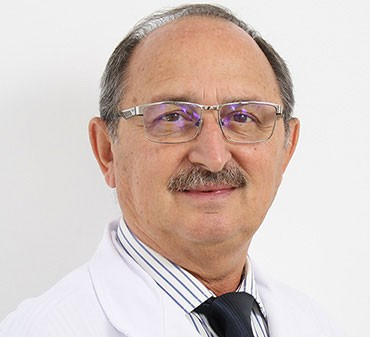
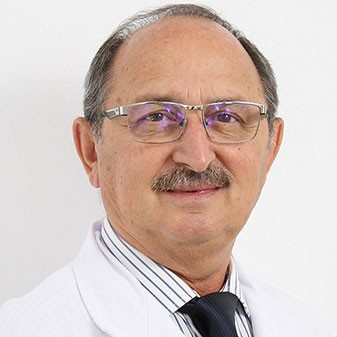
cambios en profesionales_general

Changed region(s): [[0.2077, 0.0, 0.8605, 1.0], [0.2374, 0.8605, 0.3561, 1.0], [0.4451, 0.5341, 0.4748, 0.5638]]

diff --git a/pages/profesionales_general/profesionales_general.html b/pages/profesionales_general/profesionales_general.html
@@ -5,9 +5,8 @@
   <head>
     <meta charset="UTF-8" />
     <meta name="viewport" content="width=device-width, initial-scale=1.0" />
-    <title>Contacto</title>
+    <title>Profesionales</title>
     <link href="https://cdn.jsdelivr.net/npm/bootstrap@5.3.8/dist/css/bootstrap.min.css" rel="stylesheet" integrity="sha384-sRIl4kxILFvY47J16cr9ZwB07vP4J8+LH7qKQnuqkuIAvNWLzeN8tE5YBujZqJLB" crossorigin="anonymous">
-    <script src="https://cdn.jsdelivr.net/npm/bootstrap@5.3.8/dist/js/bootstrap.bundle.min.js" integrity="sha384-FKyoEForCGlyvwx9Hj09JcYn3nv7wiPVlz7YYwJrWVcXK/BmnVDxM+D2scQbITxI" crossorigin="anonymous"></script>
     <link rel="stylesheet" href="../../styles/global.css" />
     <link rel="stylesheet" href="../../styles/profesionales_general.css" />
     <link
@@ -101,7 +100,7 @@
             <div class="row">
                 <div class="col-md-4 mt-5">
                     <div class="card border-0">
-                        <img src="../../assets/portadas/portadaProfesionalesGeneral.jpg" class="card-img-top">
+                        <img src="../../assets/medicos/Dr. josé martín Slopeer.jpg" class="card-img-top">
                         <div class="card-body text-center">
                             <h5 class="card-title">Dr. José Martín Slopeer</h5>
                             <p class="card-text">Especialidad oftalmología</p>
@@ -111,7 +110,7 @@
                 </div> 
                 <div class="col-md-4 mt-5">
                     <div class="card border-0">
-                        <img src="../../assets/portadas/portadaProfesionalesGeneral.jpg" class="card-img-top">
+                        <img src="../../assets/medicos/Dr. Lorenzo Ferrarasi.jpg" class="card-img-top">
                         <div class="card-body text-center">
                             <h5 class="card-title">Dr. Lorenzo Ferrarasi</h5>
                             <p class="card-text">Especialidad oftalmología</p>
@@ -121,7 +120,7 @@
                 </div>
                 <div class="col-md-4 mt-5">
                     <div class="card border-0">
-                        <img src="../../assets/portadas/portadaProfesionalesGeneral.jpg" class="card-img-top">
+                        <img src="../../assets/medicos/Dr. Humberto Daniel Irrazabal.jpg" class="card-img-top">
                         <div class="card-body text-center">
                             <h5 class="card-title">Dr. Humberto Daniel Irrazabal</h5>
                             <p class="card-text">Especialidad oftalmología</p>
@@ -133,7 +132,7 @@
             <div class="row">
                 <div class="col-md-4 mt-5">
                     <div class="card border-0">
-                        <img src="../../assets/portadas/portadaProfesionalesGeneral.jpg" class="card-img-top">
+                        <img src="../../assets/medicos/Dr. Horacio Barreto.jpg" class="card-img-top">
                         <div class="card-body text-center">
                             <h5 class="card-title">Dr. Horacio Barreto</h5>
                             <p class="card-text">Especialidad cardiología</p>
@@ -143,7 +142,7 @@
                 </div> 
                 <div class="col-md-4 mt-5">
                     <div class="card border-0">
-                        <img src="../../assets/portadas/portadaProfesionalesGeneral.jpg" class="card-img-top">
+                        <img src="../../assets/medicos/Dr. Martin Ledesme.jpg" class="card-img-top">
                         <div class="card-body text-center">
                             <h5 class="card-title">Dr. Martin Ledesme</h5>
                             <p class="card-text">Especialidad cardiología</p>
@@ -153,7 +152,7 @@
                 </div>
                 <div class="col-md-4 mt-5">
                     <div class="card border-0">
-                        <img src="../../assets/portadas/portadaProfesionalesGeneral.jpg" class="card-img-top">
+                        <img src="../../assets/medicos/Dr. Jesus Palacio.jpg" class="card-img-top">
                         <div class="card-body text-center">
                             <h5 class="card-title">Dr. Jesus Palacio</h5>
                             <p class="card-text">Especialidad Odontologia</p>
@@ -165,7 +164,7 @@
             <div class="row">
                 <div class="col-md-4 mt-5">
                     <div class="card border-0">
-                        <img src="../../assets/portadas/portadaProfesionalesGeneral.jpg" class="card-img-top">
+                        <img src="../../assets/medicos/Dr. Francisco Braim.jpg" class="card-img-top">
                         <div class="card-body text-center">
                             <h5 class="card-title">Dr. Francisco Braim</h5>
                             <p class="card-text">Especialidad Odontologia</p>
@@ -175,7 +174,7 @@
                 </div> 
                 <div class="col-md-4 mt-5">
                     <div class="card border-0">
-                        <img src="../../assets/portadas/portadaProfesionalesGeneral.jpg" class="card-img-top">
+                        <img src="../../assets/medicos/Dra. Lee Yamaguchi.jpg" class="card-img-top">
                         <div class="card-body text-center">
                             <h5 class="card-title">Dra. Lee Yamaguchi</h5>
                             <p class="card-text">Especialidad Odontologia</p>
@@ -185,7 +184,7 @@
                 </div>
                 <div class="col-md-4 mt-5">
                     <div class="card border-0">
-                        <img src="../../assets/portadas/portadaProfesionalesGeneral.jpg" class="card-img-top">
+                        <img src="../../assets/medicos/Dr. Eulogio Ramon Sarmiento.jpg" class="card-img-top">
                         <div class="card-body text-center">
                             <h5 class="card-title">Dr. Eulogio Ramon Sarmiento</h5>
                             <p class="card-text">Especialidad Traumatologia</p>
@@ -197,7 +196,7 @@
             <div class="row">
                 <div class="col-md-4 mt-5">
                     <div class="card border-0">
-                        <img src="../../assets/portadas/portadaProfesionalesGeneral.jpg" class="card-img-top">
+                        <img src="../../assets/medicos/Dra. Paola Suarez.jpg" class="card-img-top">
                         <div class="card-body text-center">
                             <h5 class="card-title">Dra. Paola Suarez</h5>
                             <p class="card-text">Especialidad Traumatologia</p>
@@ -207,7 +206,7 @@
                 </div> 
                 <div class="col-md-4 mt-5">
                     <div class="card border-0">
-                        <img src="../../assets/portadas/portadaProfesionalesGeneral.jpg" class="card-img-top">
+                        <img src="../../assets/medicos/Dra. Beatriz Gallardo.jpg" class="card-img-top">
                         <div class="card-body text-center">
                             <h5 class="card-title">Dra. Beatriz Gallardo</h5>
                             <p class="card-text">Especialidad Traumatologia</p>
@@ -217,7 +216,7 @@
                 </div>
                 <div class="col-md-4 mt-5">
                     <div class="card border-0">
-                        <img src="../../assets/portadas/portadaProfesionalesGeneral.jpg" class="card-img-top">
+                        <img src="../../assets/medicos/Dra. Raquel Noemi Vera.jpg" class="card-img-top">
                         <div class="card-body text-center">
                             <h5 class="card-title">Dra. Raquel Noemi Vera</h5>
                             <p class="card-text">Especialidad Ginecologia</p>
@@ -229,7 +228,7 @@
             <div class="row">
                 <div class="col-md-4 mt-5">
                     <div class="card border-0">
-                        <img src="../../assets/portadas/portadaProfesionalesGeneral.jpg" class="card-img-top">
+                        <img src="../../assets/medicos/Dr. Matias Morales.jpg" class="card-img-top">
                         <div class="card-body text-center">
                             <h5 class="card-title">Dr. Matias Morales</h5>
                             <p class="card-text">Especialidad Ginecologia</p>
@@ -239,7 +238,7 @@
                 </div> 
                 <div class="col-md-4 mt-5">
                     <div class="card border-0">
-                        <img src="../../assets/portadas/portadaProfesionalesGeneral.jpg" class="card-img-top">
+                        <img src="../../assets/medicos/Dr. Atanasio Roberto Hasselbach.jpg" class="card-img-top">
                         <div class="card-body text-center">
                             <h5 class="card-title">Dr. Atanasio Roberto Hasselbach</h5>
                             <p class="card-text">Especialidad Neurologia</p>
@@ -249,7 +248,7 @@
                 </div>
                 <div class="col-md-4 mt-5">
                     <div class="card border-0">
-                        <img src="../../assets/portadas/portadaProfesionalesGeneral.jpg" class="card-img-top">
+                        <img src="../../assets/medicos/Dr. Guillermo Conti.jpg" class="card-img-top">
                         <div class="card-body text-center">
                             <h5 class="card-title">Dr. Guillermo Conti</h5>
                             <p class="card-text">Especialidad Neurologia</p>
